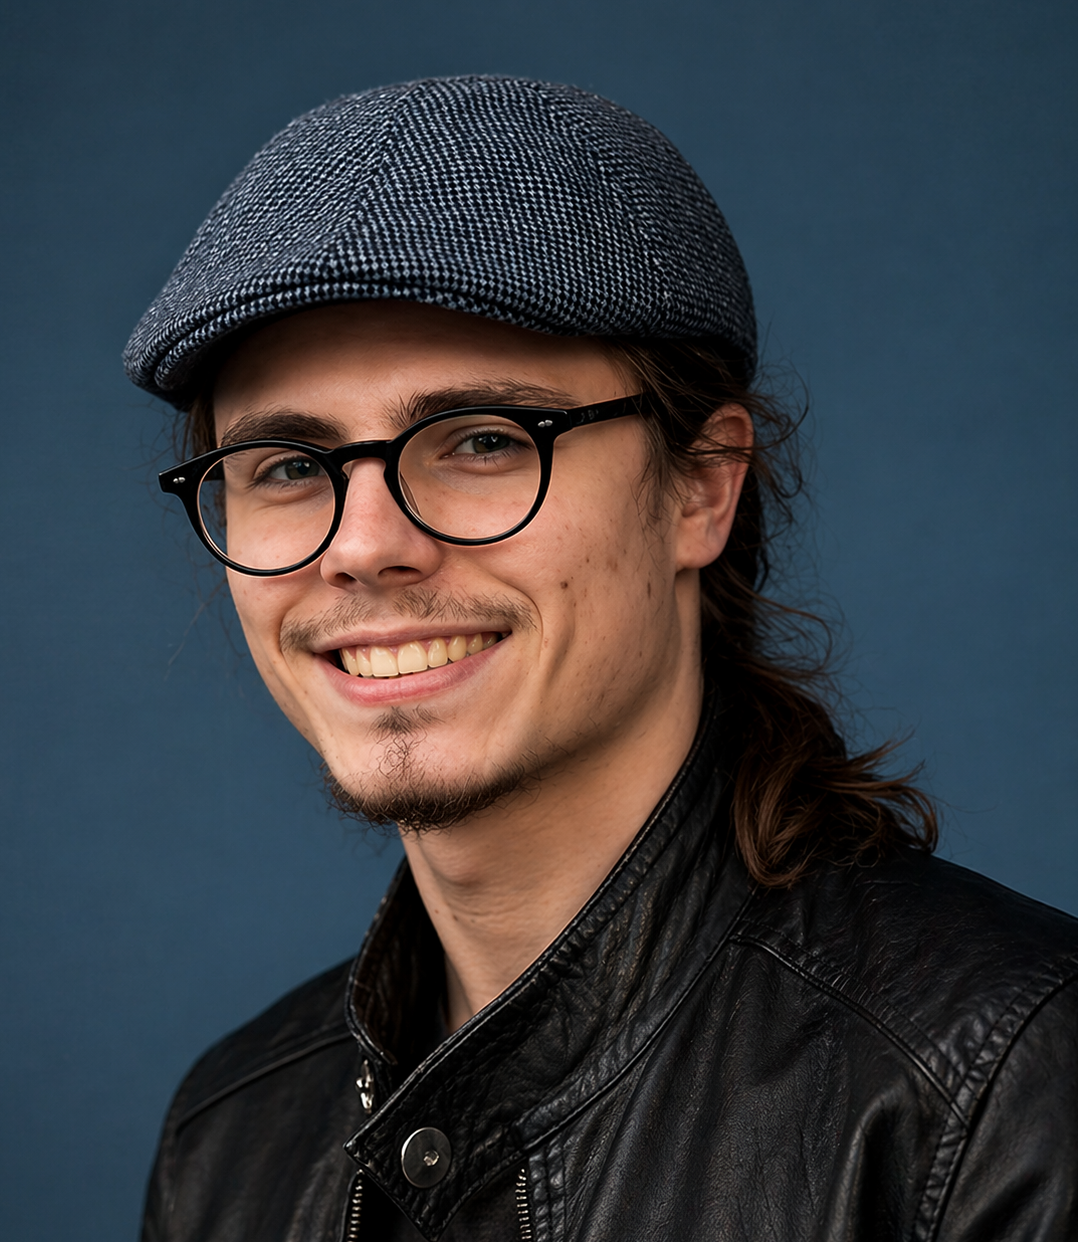
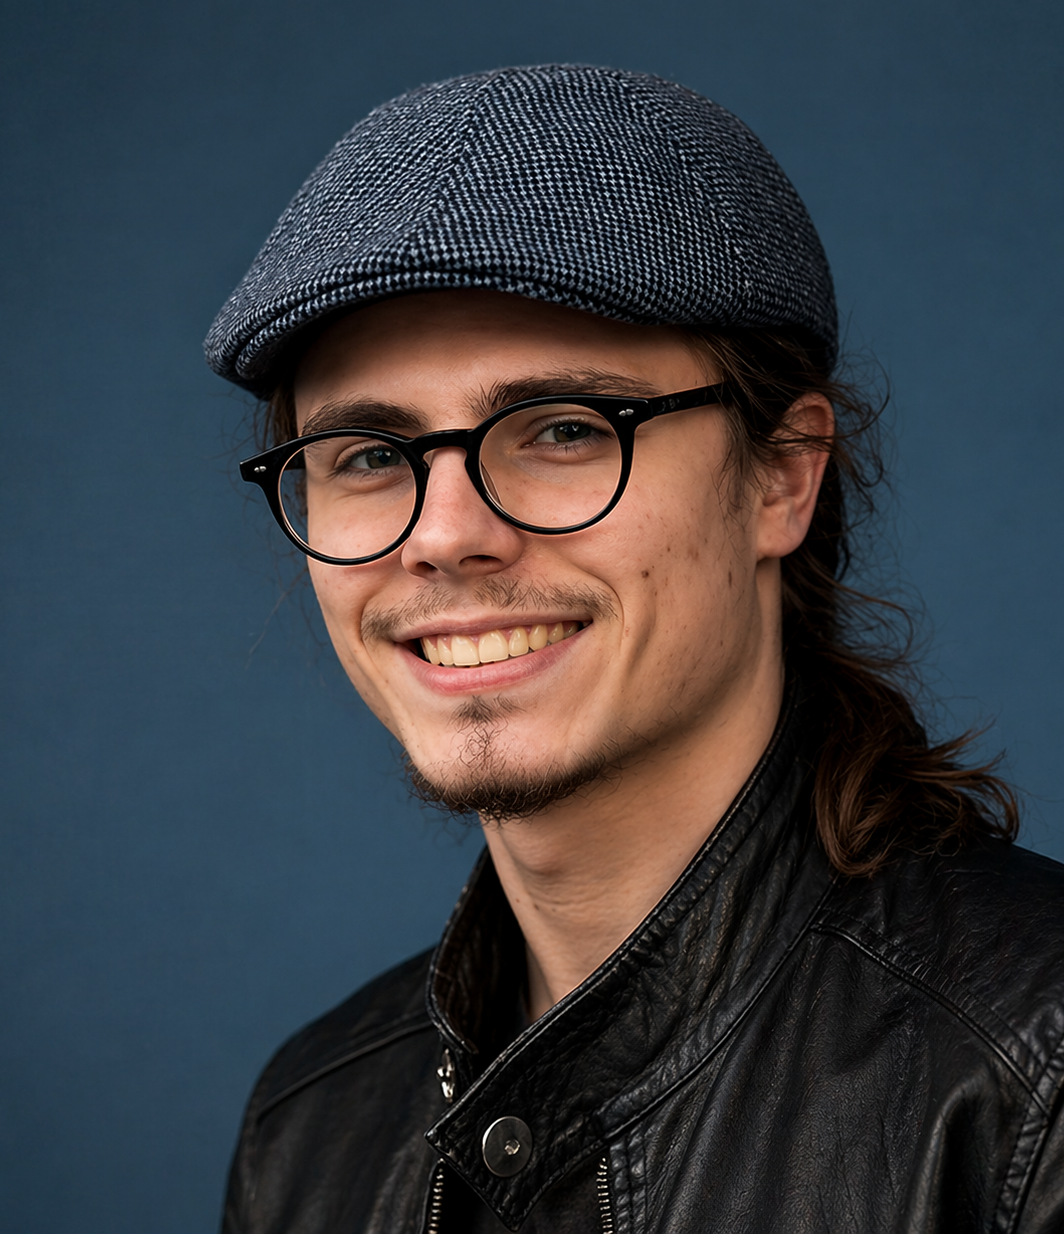
push:

diff --git a/index.html b/index.html
@@ -13,6 +13,7 @@
   <link href="https://cdnjs.cloudflare.com/ajax/libs/font-awesome/5.15.4/css/all.min.css" rel="stylesheet">
 
 
+
   <style>
     html {
       font-size: 17px;
@@ -27,7 +28,7 @@
       padding: 0 0 60px;
       background: #ffffff;
       font-family: inherit;
-      color: #222;
+      color: #333;
       line-height: 1.55;
       overflow-x: hidden;
     }
@@ -48,17 +49,17 @@
     }
 
     .hero-background {
-      background-color: #f1f1f1;
+      background-color: #f9f9f9;
       width: 100%;
       padding: 45px 0 38px;
-      margin-bottom: 20px;
+      margin-bottom: 36px;
     }
 
     .hero-section {
       width: 100%;
       display: flex;
       gap: 50px;
-      align-items: flex-start;
+      align-items: center;
       justify-content: space-between;
     }
 
@@ -91,65 +92,87 @@
     }
 
     .hero-photo img:hover {
-      transform: translateY(-2px);
-      box-shadow: 0 8px 24px rgba(0, 0, 0, 0.15);
     }
 
     .hero-name {
-      font-size: 2.0em;
+      font-size: 1.7em;
       font-family: inherit;
       font-weight: 600;
       margin-bottom: 0.32em;
       line-height: 1.05;
     }
 
-    .hero-pronunciation {
-      font-size: 0.5em;
-      font-weight: 400;
-      color: #555;
-      margin-left: 0.35rem;
-      white-space: normal;
-    }
-
-    .hero-links {
-      margin-top: 1.1rem;
-      display: flex;
-      flex-direction: column;
-      gap: 0;
-    }
-
-    .hero-links a {
-      color: #444;
-      font-size: 0.95em;
-      transition: color 0.13s;
-      display: flex;
-      align-items: baseline;
-      gap: 0;
-      text-decoration: none;
-      padding: 0.18rem 0;
-    }
-
-    .hero-links a .link-label {
-      flex-shrink: 0;
-      color: #888;
-      min-width: 4.5rem;
-      font-size: 0.95em;
-    }
-
-    .hero-links a .link-dots {
-      flex: 1;
-      border-bottom: 1px dotted #ccc;
-      margin: 0 0.5rem;
+    .name-tooltip-wrap {
       position: relative;
-      top: -0.2em;
-      min-width: 2rem;
+      display: inline-block;
+      vertical-align: super;
+      font-size: 0.45em;
+      font-weight: 400;
+      margin-left: 0.3em;
+      cursor: default;
     }
 
-    .hero-links a .link-value {
-      flex-shrink: 0;
-      text-decoration: underline;
-      text-underline-offset: 2px;
-      text-decoration-color: #bbb;
+    .name-tooltip-trigger {
+      color: #777;
+      border-bottom: 1px dotted #777;
+      line-height: 1;
+    }
+
+    .name-tooltip-trigger:hover {
+      color: #333;
+      border-color: #333;
+    }
+
+    .name-tooltip-box {
+      display: none;
+      position: absolute;
+      top: calc(100% + 6px);
+      left: 50%;
+      transform: translateX(-50%);
+      background: #fff;
+      border: 1px solid #ddd;
+      border-radius: 6px;
+      padding: 0.55rem 0.75rem;
+      font-size: 1.6em;
+      font-weight: 400;
+      color: #333;
+      white-space: nowrap;
+      box-shadow: 0 4px 14px rgba(0,0,0,0.09);
+      z-index: 10;
+      pointer-events: none;
+      line-height: 1.5;
+    }
+
+    .name-tooltip-wrap:hover .name-tooltip-box {
+      display: block;
+    }
+
+    .hero-links-row {
+      margin-top: 0.75rem;
+      margin-bottom: 0;
+      display: flex;
+      flex-wrap: wrap;
+      gap: 0.35rem;
+    }
+
+    .hero-links-row a {
+      color: #555;
+      font-size: 0.88em;
+      text-decoration: none;
+      border: 1px solid #ddd;
+      border-radius: 4px;
+      padding: 0.18rem 0.55rem;
+      transition: color 0.13s, border-color 0.13s, background 0.13s;
+    }
+
+    .hero-links-row a:hover {
+      color: #111;
+      border-color: #999;
+      background: #f5f5f5;
+    }
+
+    .hero-links-row .sep {
+      display: none;
     }
 
     .hero-bio {
@@ -166,19 +189,6 @@
       font-style: italic;
     }
 
-    .hero-links a:hover {
-      color: #111;
-    }
-
-    .hero-links a:hover .link-value {
-      text-decoration-color: #555;
-    }
-
-    .contact-footer {
-      max-width: 840px;
-      margin: 18px auto 0;
-      padding: 0 24px 60px;
-    }
 
     @media (max-width: 700px) {
       .hero-section {
@@ -200,9 +210,6 @@
         text-align: left;
       }
 
-      .hero-links {
-        align-items: stretch;
-      }
     }
 
     .about {
@@ -301,7 +308,7 @@
     }
 
     .entry:hover {
-      background-color: #f1f1f1;
+      background-color: #f9f9f9;
     }
 
     .entry-image-container {
@@ -427,7 +434,7 @@
 
     .news-section {
       max-width: 840px;
-      margin: 6px auto 0;
+      margin: 28px auto 0;
       padding: 0 24px;
       padding-bottom: 14px;
       border-bottom: 1px solid #e6e6e6;
@@ -572,26 +579,32 @@
     <div class="content">
       <div class="hero-section">
         <div class="hero-photo">
-          <img src="image/ziga_blue_narrow.png" alt="Žiga">
+          <img src="image/ziga_city.png" alt="Žiga">
         </div>
         <div class="hero-info">
-          <div class="hero-name">Žiga Kovačič <span class="hero-pronunciation">//Zhee-guh koh-VAH-chich//</span></div>
+          <div class="hero-name">Žiga Kovačič<span class="name-tooltip-wrap">
+              <span class="name-tooltip-trigger">?</span>
+              <div class="name-tooltip-box">My name is of Slovenian origin.<br>Pronounced <em>Zhee-guh Koh-VAH-chich</em>.</div>
+            </span></div>
           <p class="hero-bio" style="margin-top: 0; margin-bottom: 0;">
             I’m an incoming CS PhD student at Stanford, advised by <a href="https://jiajunwu.com/" target="_blank">Jiajun Wu</a> and co-advised by <a href="https://jiayuanm.com/" target="_blank">Jiayuan Mao</a>. I’m interested in hierarchical world models that learn the right level of physical abstraction for each task and co-evolve through interaction. I also have a deep interest in physical simulation.
           </p>
-          <p class="hero-bio" style="margin-top: 0.5em; margin-bottom: 0;">Previously, I completed my undergrad at Cornell, where I was fortunate to work with <a href="https://www.cs.cornell.edu/~ellisk/" target="_blank">Kevin Ellis</a>.</p>
+          <p class="hero-bio" style="margin-top: 0.5em; margin-bottom: 0;">Previously, I completed my undergrad at Cornell, where I was fortunate to work with <a href="https://www.cs.cornell.edu/~ellisk/" target="_blank">Kevin Ellis</a>, and was recognised as a <a href="https://merrill.cornell.edu/programs-and-awards/presidential-scholars/" target="_blank">Merrill Presidential Scholar</a>.</p>
+          <p class="hero-links-row">
+            <a href="mailto:ziga@stanford.edu">email</a>
+            <span class="sep">|</span>
+            <a target="_blank" href="https://github.com/zzigak">github</a>
+            <span class="sep">|</span>
+            <a target="_blank" href="https://scholar.google.com/citations?user=EgGCu2wAAAAJ">scholar</a>
+            <span class="sep">|</span>
+            <a target="_blank" href="pdf/grad_school.pdf">cv</a>
+            <span class="sep">|</span>
+            <a target="_blank" href="https://x.com/zzigakovacic">x</a>
+          </p>
         </div>
       </div>
     </div>
   </div>
-
-  <section class="news-section">
-    <h2 class="section-header" style="margin-top: 0; font-size: 1.1rem;">News</h2>
-    <ul class="news-list">
-      <li class="news-item"><strong>Mar. 2026</strong> Recognised as top 1% of graduating class, Merrill Presidential
-        Scholar award.</li>
-    </ul>
-  </section>
 
   <p class="pub-intro">See my <a target="_blank" href="https://scholar.google.com/citations?user=EgGCu2wAAAAJ">Google
       Scholar</a> for the most up-to-date publication list.</p>
@@ -599,8 +612,8 @@
   <!-- Tabs - Owen-inspired style -->
   <div class="tabs-container">
     <div class="tabs">
+      <button class="active" data-section="publications" onclick="showSection('publications', event)">Selected</button>
       <button data-section="all" onclick="showSection('all', event)">All</button>
-      <button class="active" data-section="publications" onclick="showSection('publications', event)">Publications</button>
       <button data-section="projects" onclick="showSection('projects', event)">Projects</button>
       <button data-section="teaching" onclick="showSection('teaching', event)">Teaching</button>
     </div>
@@ -609,6 +622,23 @@
   <!-- Entries - Original index style -->
   <div class="entries-container">
     <div class="entries" id="all-content">
+
+      <!-- Publication 2 -->
+      <div class="entry publication selected">
+        <div class="entry-image-container">
+          <img src="image/publication_book.jpg" alt="Physics-Based Simulation">
+        </div>
+        <div class="entry-info">
+          <h3>Physics-Based Simulation<span class="entry-type-label">Publication</span></h3>
+          <div class="authors">M. Li, C. Jiang, Z. Luo, <span class="me">Ž. Kovačič</span>, W. Du, C. Yu, T. Xie</div>
+          <div class="venue">Online Book (2025)</div>
+          <div class="links">
+            <a href="https://phys-sim-book.github.io/" target="_blank"><i class="fas fa-book"></i> Book</a>
+            <a href="https://github.com/phys-sim-book/solid-sim-tutorial" target="_blank"><i class="fab fa-github"></i>
+              Code</a>
+          </div>
+        </div>
+      </div>
 
       <!-- Publication 1 -->
       <div class="entry publication selected">
@@ -626,23 +656,6 @@
               Method</a>
             <a href="https://github.com/code-refactor/minicode" target="_blank"><i class="fab fa-github"></i>
               Benchmark</a>
-          </div>
-        </div>
-      </div>
-
-      <!-- Publication 2 -->
-      <div class="entry publication selected">
-        <div class="entry-image-container">
-          <img src="image/publication_book.jpg" alt="Physics-Based Simulation">
-        </div>
-        <div class="entry-info">
-          <h3>Physics-Based Simulation<span class="entry-type-label">Publication</span></h3>
-          <div class="authors">M. Li, C. Jiang, Z. Luo, W. Du, C. Yu, <span class="me">Ž. Kovačič</span>, T. Xie</div>
-          <div class="venue">Online Book (2025)</div>
-          <div class="links">
-            <a href="https://phys-sim-book.github.io/" target="_blank"><i class="fas fa-book"></i> Book</a>
-            <a href="https://github.com/phys-sim-book/solid-sim-tutorial" target="_blank"><i class="fab fa-github"></i>
-              Code</a>
           </div>
         </div>
       </div>
@@ -874,35 +887,6 @@
     </div>
   </div>
 
-  <footer class="contact-footer">
-    <div class="hero-links">
-      <a href="mailto:zk66@cornell.edu">
-        <span class="link-label">email</span>
-        <span class="link-dots"></span>
-        <span class="link-value">zk66@cornell.edu</span>
-      </a>
-      <a target="_blank" href="https://github.com/zzigak">
-        <span class="link-label">github</span>
-        <span class="link-dots"></span>
-        <span class="link-value">@zzigak</span>
-      </a>
-      <a target="_blank" href="https://scholar.google.com/citations?user=EgGCu2wAAAAJ">
-        <span class="link-label">scholar</span>
-        <span class="link-dots"></span>
-        <span class="link-value">Žiga Kovačič</span>
-      </a>
-      <a target="_blank" href="https://x.com/zzigakovacic">
-        <span class="link-label">x / twitter</span>
-        <span class="link-dots"></span>
-        <span class="link-value">@zzigakovacic</span>
-      </a>
-      <a target="_blank" href="pdf/grad_school.pdf">
-        <span class="link-label">cv</span>
-        <span class="link-dots"></span>
-        <span class="link-value">grad_school.pdf</span>
-      </a>
-    </div>
-  </footer>
 
 </body>
 
